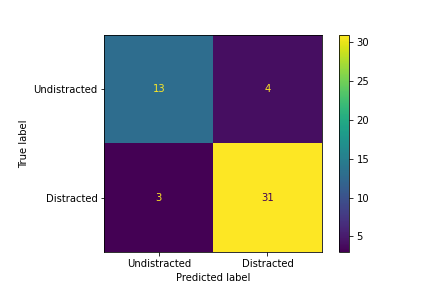
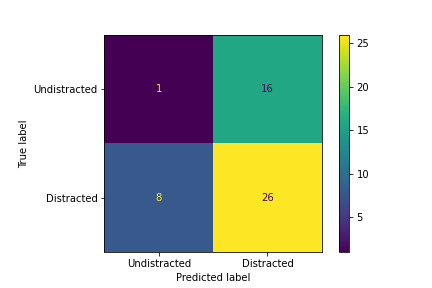
figs

diff --git a/Classification.py b/Classification.py
@@ -10,25 +10,34 @@ import pandas as pd
 from sklearn.metrics import confusion_matrix, ConfusionMatrixDisplay
 from sklearn.model_selection import StratifiedKFold
 from sklearn.linear_model import LogisticRegression
-from pyts.multivariate.transformation import WEASELMUSE
+from pyts.multivariate.transformation import WEASELMUSE, MultivariateTransformer
+from pyts.transformation import WEASEL
+from pyts.image import GramianAngularField
+from pyts.multivariate.image import JointRecurrencePlot
 import matplotlib.pyplot as plt
-import more_itertools
-
-def pairwise(array):
-    length = array.shape[1]
-    
+import seaborn as sns
 
 def trainScore(X,y2,y3,col='all',graphs=True):
+    skf = StratifiedKFold(n_splits=5,shuffle=True) #maintains class balance in folds for 2 class case
+    if col=='all':
+        transformer = WEASELMUSE(word_size=5, n_bins=2, window_sizes=[12, 36], chi2_threshold=15, sparse=False, strategy='uniform')
+    else:
+        transformer = WEASEL(sparse=False)
+        
     confusion2, confusion3 = 0,0
-    for n_iters in range(1):  #transforms data n different times
-        X2 = transformer.fit_transform(X,y2)
-        X3 = transformer.fit_transform(X,y3)
-        scores2, scores3 = [],[]
+    scores2, scores3 = [],[]
+    for n_iters in range(3):  #transforms data n different times
+        # X2 = transformer.fit_transform(X,y2)
+        # X3 = transformer.fit_transform(X,y3)
+        X2, X3 = X,X
         
         for train_index, test_index in skf.split(X2, y2):
             X_train, X_test = X2[train_index], X2[test_index]
             y_train, y_test = y2[train_index], y2[test_index]
+            transformer.fit(X_train,y_train)
+            X_train = transformer.transform(X_train)
             clf2 = LogisticRegression(solver='newton-cg').fit(X_train,y_train)
+            X_test = transformer.transform(X_test)
             y_pred = clf2.predict(X_test)
             confusion2 += confusion_matrix(y_test, y_pred)
             scores2.append(clf2.score(X_test, y_test))
@@ -36,7 +45,10 @@ def trainScore(X,y2,y3,col='all',graphs=True):
         for train_index, test_index in skf.split(X3, y3):
             X_train, X_test = X3[train_index], X3[test_index]
             y_train, y_test = y3[train_index], y3[test_index]
+            transformer.fit(X_train,y_train)
+            X_train = transformer.transform(X_train)
             clf3 = LogisticRegression(solver='newton-cg').fit(X_train,y_train)
+            X_test = transformer.transform(X_test)
             y_pred = clf3.predict(X_test)
             confusion3 += confusion_matrix(y_test, y_pred)
             scores3.append(clf3.score(X_test, y_test))
@@ -52,34 +64,50 @@ def trainScore(X,y2,y3,col='all',graphs=True):
         disp2 = ConfusionMatrixDisplay(confusion_matrix=confusion2,display_labels=['Undistracted','Distracted'])
         disp3 = ConfusionMatrixDisplay(confusion_matrix=confusion3,display_labels=['Undistracted','Distracted','Very Distracted'])
         disp2.plot()
-        plt.savefig('2by2Confusion')
+        plt.title(col)
+        plt.savefig('2by2Confusion'+col)
         plt.show()
         disp3.plot()
-        plt.savefig('3by3Confusion')
+        plt.title(col)
+        plt.savefig('3by3Confusion'+col)
         plt.show()
-        
+    return np.average(scores2), np.average(scores3)
 
 X = np.load('data.npy', allow_pickle=True)
 numSamples = X.shape[0]
 y2, y3 = [0,1,1]*(numSamples//3), [0,1,2]*(numSamples//3)
 y2, y3 = np.array(y2), np.array(y3)
 
-skf = StratifiedKFold(n_splits=5,shuffle=True) #maintains class balance in folds for 2 class case
-transformer = WEASELMUSE(word_size=5, n_bins=2, window_sizes=[12, 36],
-                          chi2_threshold=15, sparse=False, strategy='uniform')
+# trainScore(X,y2,y3,graphs=False)
+columns = ['Accel','Brake','Openness','PupilL','PupilR','Speed','Steering','Throttle','Center','Front','Back','Objects_numeric','gsr_phasic']
+scores2,scores3 = [], []
+for i, col in enumerate(columns):
+    score2, score3 = trainScore(X[:,i,:],y2,y3,col=col,graphs=False)
+    scores2.append(score2)
+    scores3.append(score3)
+
+# plt.hist(scores2)
+# plt.hist(scores3)
+ax = sns.barplot(x=columns,y=scores2, order=scores2.sort())
+ax.set_xticklabels(ax.get_xticklabels(), rotation=40, ha="right")
+ax.set_ylabel('Accuracy')
+plt.savefig('2 Class Feature Importance')
+plt.show()
+ax = sns.barplot(x=columns,y=scores3, order=scores3.sort())
+ax.set_xticklabels(ax.get_xticklabels(), rotation=40, ha="right")
+ax.set_ylabel('Accuracy')
+plt.savefig('3 Class Feature Importance')
+plt.show()
+
+# jrp = JointRecurrencePlot(threshold='point', percentage=50)
+# X_jrp = jrp.fit_transform(X)
+# plt.figure(figsize=(5, 5))
+# plt.imshow(X_jrp[3], cmap='binary', origin='lower')
+# plt.title('Joint Recurrence Plot', fontsize=18)
+# plt.tight_layout()
+# plt.show()
 
 
-trainScore(X,y2,y3,graphs=True)
-
-# Accuracy by Column
-# columns = ["Accel","Brake","Openness","PupilL","PupilR","Speed","Steering","Throttle","Center","Front","Back","Objects_numeric","gsr_phasic","State"]       
-# for col1,col2 in more_itertools.pairwise(X):
-#     print(col1.shape,col2.shape)
-# for col in range(12):
-#     #X_col = X[:,col:col+2,:].reshape(X.shape[0],2,X.shape[2])
-#     X_col = np.delete(X,[col,col+1],1)
-#     print(X_col.shape)
-#     trainScore(X_col,y2,y3,col=columns[col])
 
 
 

diff --git a/LSTM.py b/LSTM.py
@@ -1,0 +1,80 @@
+# -*- coding: utf-8 -*-
+"""
+Created on Wed Apr 13 18:17:25 2022
+
+@author: Riley
+"""
+import torch
+import torch.nn as nn
+import torch.nn.functional as F
+import torch.optim as optim
+import numpy as np
+import pandas as pd
+from sklearn.model_selection import train_test_split
+
+# Load data
+X = np.load('data.npy', allow_pickle=True)
+numSamples = X.shape[0]
+y2, y3 = [0,1,1]*(numSamples//3), [0,1,2]*(numSamples//3)
+y2, y3 = np.array(y2).astype('float'), np.array(y3).astype('float')
+
+features_train, features_test, y_train, y_test = train_test_split(X, y2, test_size=0.2, random_state=42)
+
+# Set device
+device = torch.device("cuda:0" if torch.cuda.is_available() else "cpu")
+
+# Define Dataset
+class FeatureDataset(torch.utils.data.Dataset):
+    def __init__(self, features, y=None):
+        self.features = features
+        self.y = y
+    def __len__(self):
+        return len(self.features)
+    def __getitem__(self, idx):
+        return torch.from_numpy(self.features[idx]).reshape(475,13), torch.Tensor(np.array(self.y[idx]))  # (1,13,475)
+
+# Create an LSTM model
+class LSTM(nn.Module):
+    def __init__(self, input_size, hidden_size, num_layers, num_classes):
+        super().__init__()
+        self.hidden_size = hidden_size
+        self.num_layers = num_layers
+        self.lstm = nn.LSTM(input_size, hidden_size, num_layers, batch_first=True)
+        self.fc = nn.Linear(hidden_size, num_classes)
+    def forward(self, x):
+        h0 = torch.zeros(self.num_layers, x.size(0), self.hidden_size).to(device)
+        c0 = torch.zeros(self.num_layers, x.size(0), self.hidden_size).to(device)
+        out, _ = self.lstm(x, (h0, c0))
+        out = self.fc(out[:, -1, :])
+        return out
+
+# Define loaders
+batch_size = 32
+train_loader = torch.utils.data.DataLoader(FeatureDataset(features_train, y_train), batch_size=batch_size, shuffle=True, drop_last=True)
+test_loader = torch.utils.data.DataLoader(FeatureDataset(features_test, y_test), batch_size=batch_size, shuffle=False)
+
+model = LSTM(input_size=13, hidden_size=100, num_layers=1, num_classes=1).to(device)
+optimizer = optim.Adam(model.parameters(), lr=0.001)
+    
+num_epochs = 500
+for epoch in range(num_epochs):
+    correct_train = correct_test = 0
+    for i, batch in enumerate(train_loader):
+        model.train()
+        x = batch[0].float().to(device)
+        y = batch[1].float().to(device)
+        y_pred = model(x).squeeze()
+        loss = F.mse_loss(y_pred, y)
+        optimizer.zero_grad()
+        loss.backward()
+        optimizer.step()
+        correct_train += (y_pred.round() == y).sum().item()
+    for i, batch in enumerate(test_loader):
+        model.eval()
+        x = batch[0].float().to(device)
+        y = batch[1].float().to(device)
+        y_pred = model(x).squeeze()
+        correct_test += (y_pred.round() == y).sum().item()
+    if (epoch+1) % 50 == 0:
+        print(f'Epoch {epoch+1}:')
+        print(f'Loss: {loss.item():.2f}, Train Accuracy: {correct_train/len(train_loader.dataset):.2f}, Test Accuracy: {correct_test/len(test_loader.dataset):.2f}\n')
